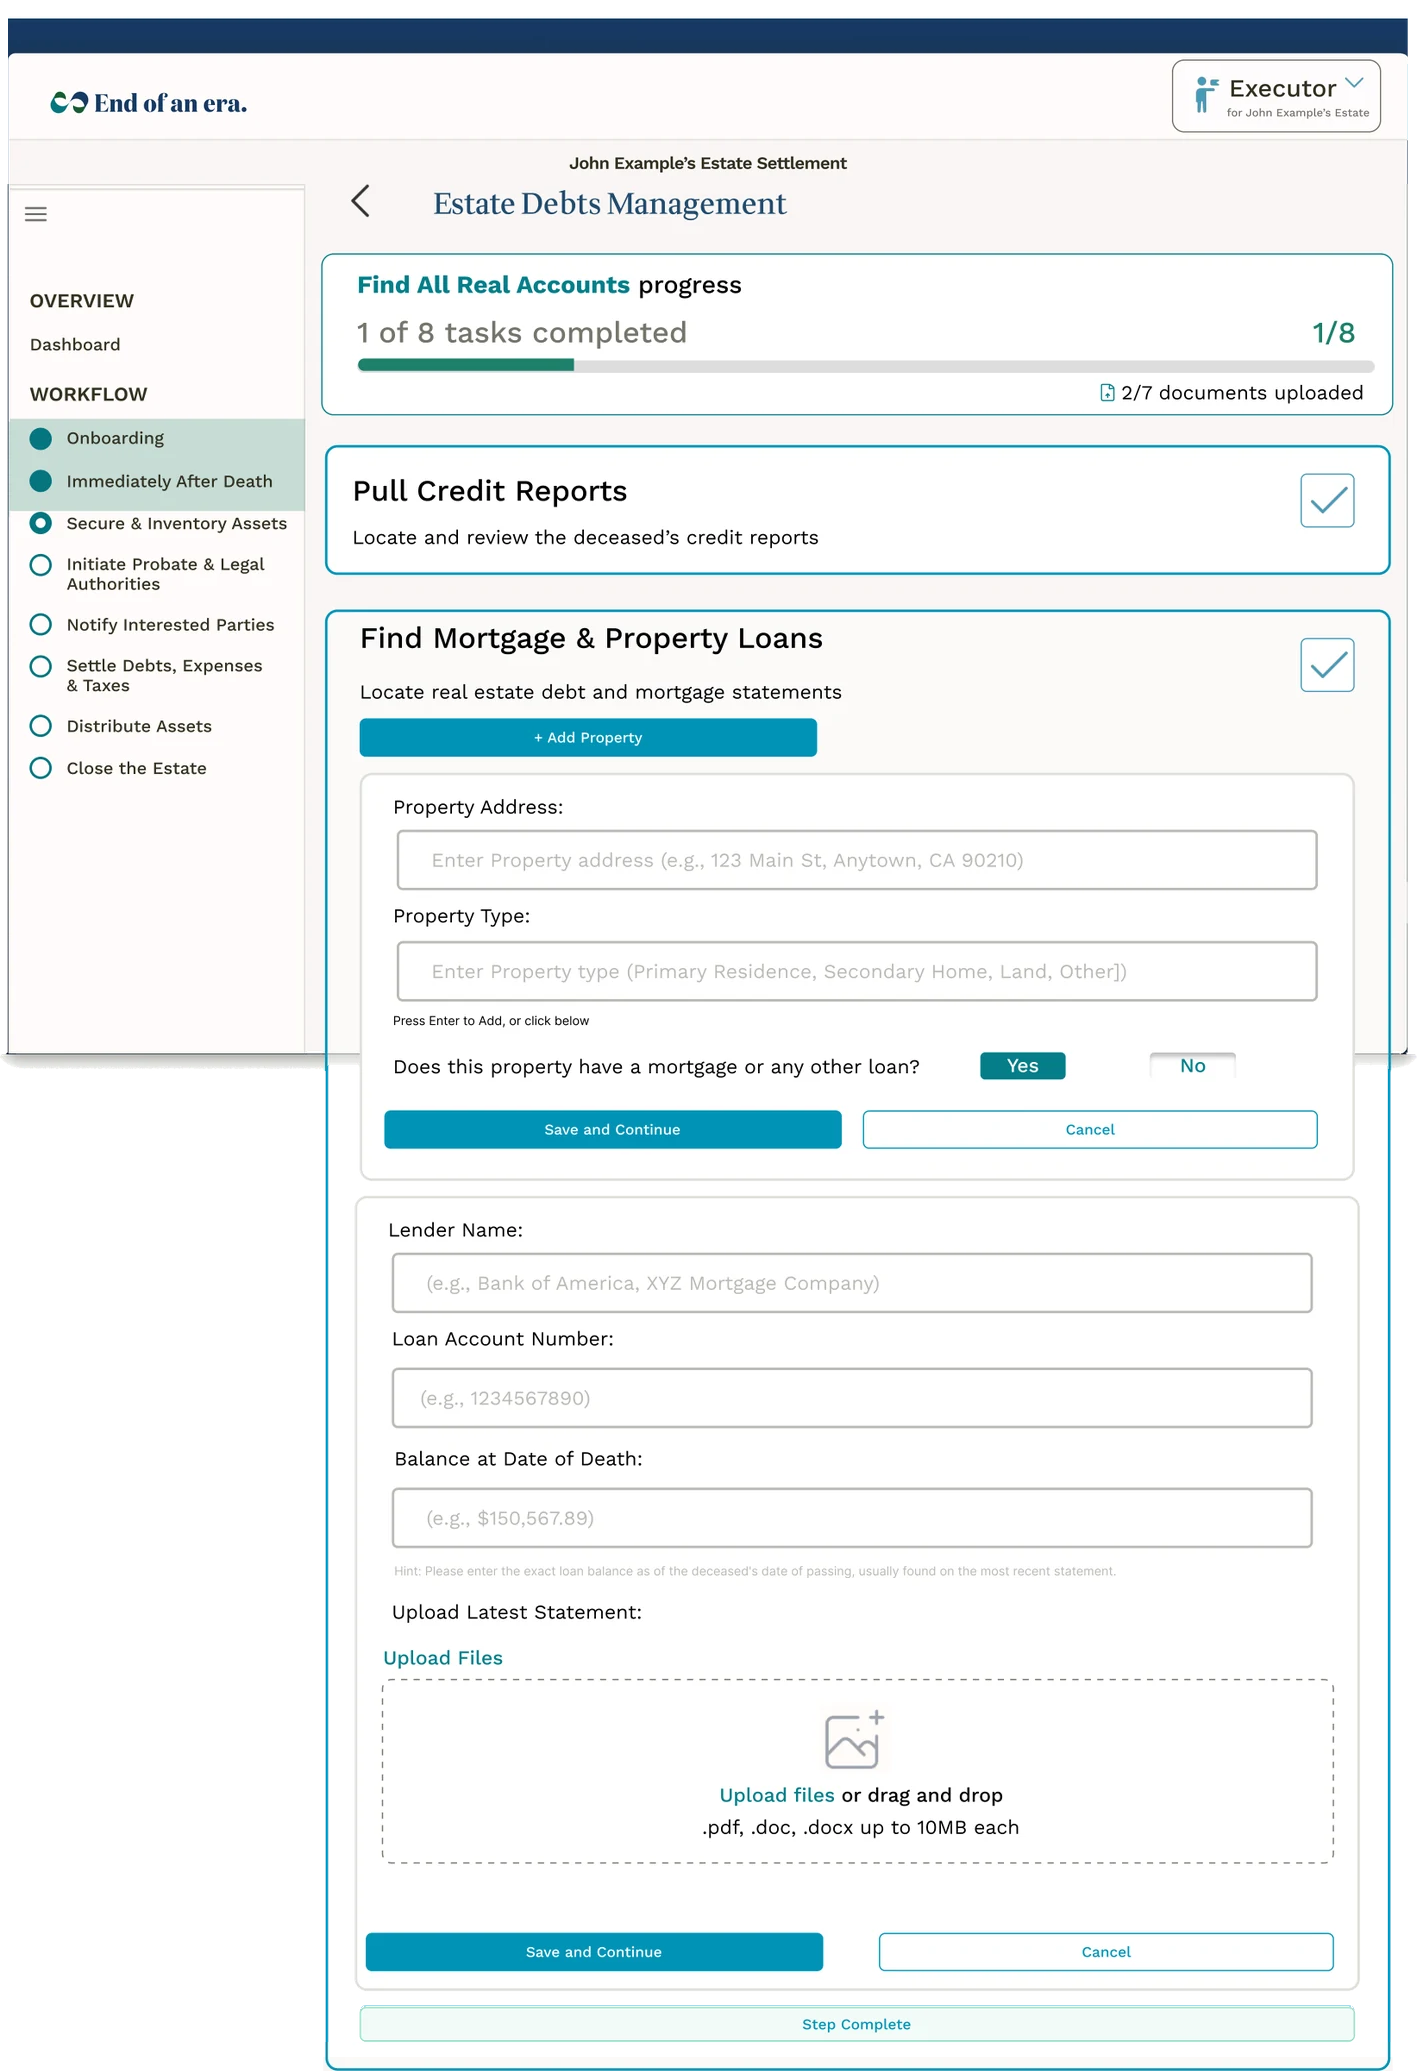
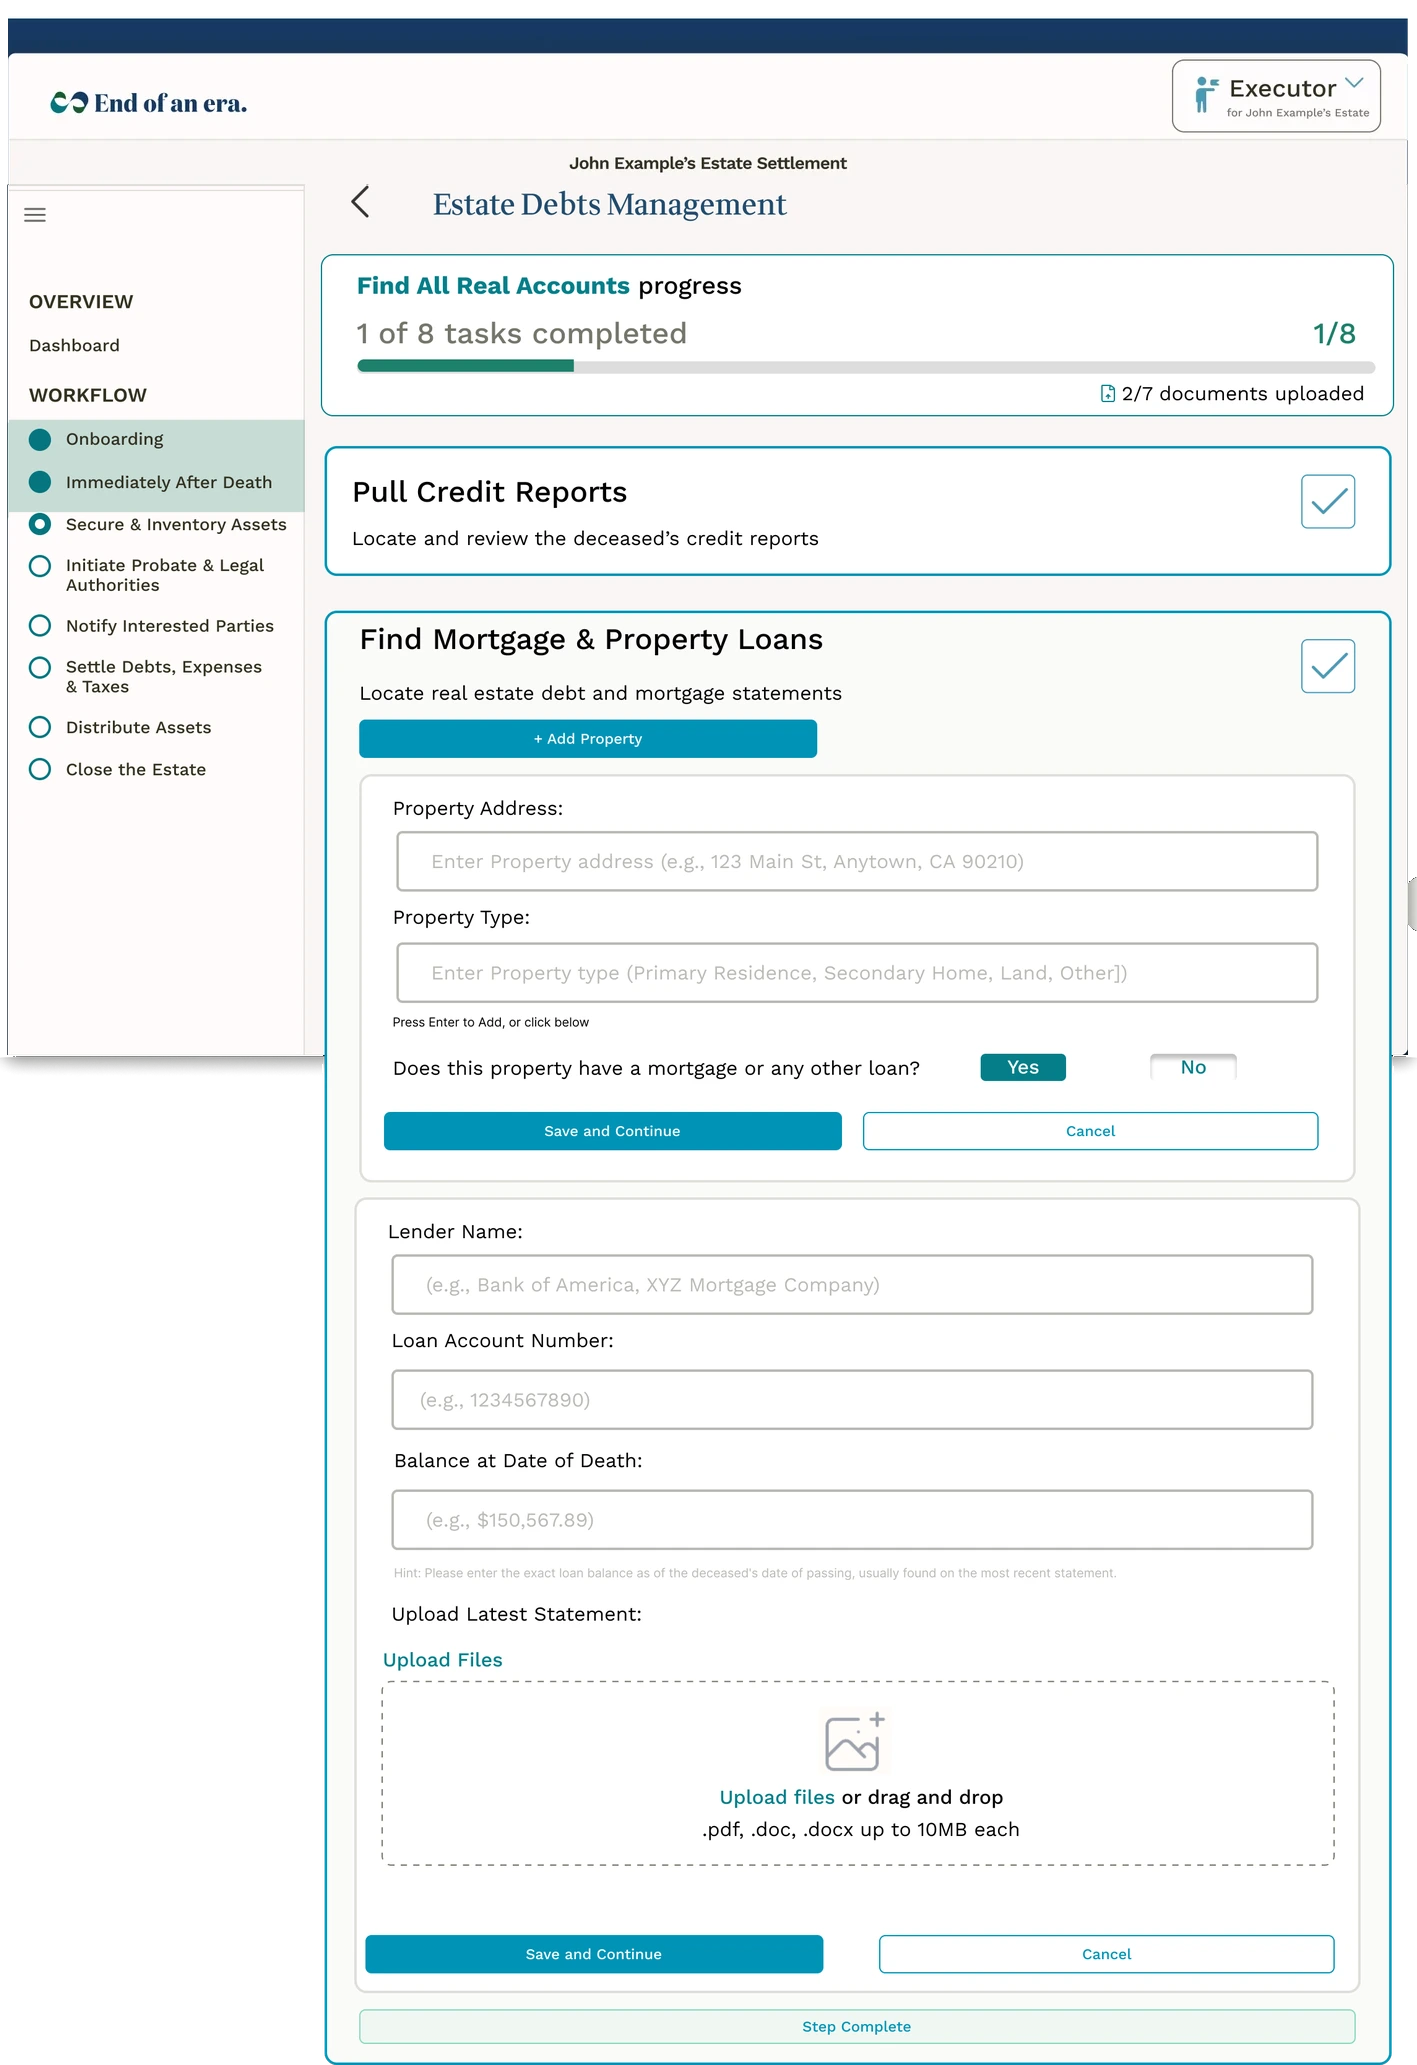
End of an Era: solid Find Mortgage screen (Frame 391, tools/eoe_liab_mortgage_solid.py); frames fit each window's own height; less rounded frames with parallel inner corners

diff --git a/components/case/device.tsx b/components/case/device.tsx
@@ -11,7 +11,7 @@ import { L, tx } from "@/lib/i18n";
 export type Frame = { src: string; w: number; h: number; win: [number, number, number, number] | null; alt: string };
 
 const WIN_W = 1400;
-const WIN_H = 995; // shared window box height (most windows are 997 below the export's white top strip; ±2% differences fall inside it)
+const WIN_H = 995; // fallback window height; each frame uses its own (win[3]) so the frame always fits its window
 const PAD = 0.022; // bezel padding, as a fraction of the device width
 const INNER = 1 - PAD * 2;
 
@@ -21,11 +21,14 @@ function place(f: Frame) {
   return { left: -x / WIN_W, top: -y / WIN_W, width: f.w / WIN_W, height: f.h / WIN_W };
 }
 
+const winH = (f: Frame) => (f.win ? f.win[3] : WIN_H);
+const R = 6; // inner screen corner radius (px); the frame's outer radius is this plus the padding, so corners run parallel
+
 /** Extra space the overflowing parts need around the device, in fractions of the device width. */
 export function overflow(f: Frame) {
   if (!f.win) return { left: 0, right: 0, bottom: Math.max(0, (f.h / f.w) - 1) };
   const p = place(f);
-  const winBoxH = WIN_H / WIN_W;
+  const winBoxH = winH(f) / WIN_W;
   return {
     left: Math.max(0, -p.left * INNER - PAD),
     right: Math.max(0, (p.left + p.width - 1) * INNER - PAD),
@@ -52,14 +55,20 @@ export function Device({ frame, className, style }: { frame: Frame; className?: 
     );
   }
   const p = place(frame);
+  const H = winH(frame);
+  const [x, y, ww] = frame.win;
+  // trim slivers beside the window (exports are a few px wider), but never real overflow such as a wide modal
+  const sideL = x < 20 ? (x / frame.w) * 100 : 0;
+  const rest = frame.w - x - ww;
+  const sideR = rest > 0 && rest < 20 ? (rest / frame.w) * 100 : 0;
   return (
-    <div className={className} style={style}>
+    <div className={className} style={{ ...style, containerType: "inline-size" }}>
       <div
-        className="rounded-[22px] bg-white shadow-[0_24px_60px_-28px_rgba(0,0,0,0.5)]"
-        style={{ padding: `${PAD * 100}%` }}
+        className="bg-white shadow-[0_24px_60px_-28px_rgba(0,0,0,0.5)]"
+        style={{ padding: `${PAD * 100}cqw`, borderRadius: `calc(${PAD * 100}cqw + ${R}px)` }}
       >
-        <div className="relative w-full" style={{ aspectRatio: `${WIN_W} / ${WIN_H}` }}>
-          <div className="absolute inset-0 rounded-[6px] bg-[#fbf8f5]" />
+        <div className="relative w-full" style={{ aspectRatio: `${WIN_W} / ${H}` }}>
+          <div className="absolute inset-0 bg-[#fbf8f5]" style={{ borderRadius: R }} />
           {/* eslint-disable-next-line @next/next/no-img-element */}
           <img
             src={frame.src}
@@ -71,10 +80,10 @@ export function Device({ frame, className, style }: { frame: Frame; className?: 
             className="absolute max-w-none select-none"
             style={{
               left: `${p.left * 100}%`,
-              top: `${(p.top * 100 * WIN_W) / WIN_H}%`,
+              top: `${(p.top * 100 * WIN_W) / H}%`,
               width: `${p.width * 100}%`,
-              // hide the white strip the exports have above the window
-              clipPath: `inset(${(frame.win[1] / frame.h) * 100}% 0 0 0)`,
+              // hide the white strip above the window; round the corners to match the frame
+              clipPath: `inset(${(y / frame.h) * 100}% ${sideR}% 0 ${sideL}% round ${R}px)`,
             }}
           />
         </div>
@@ -156,7 +165,7 @@ function point(d: Placed, fx: number, fy: number) {
   if (!d.frame.win) return { x: d.left + d.width * fx, y: d.top + d.width * (d.frame.h / d.frame.w) * fy };
   return {
     x: d.left + d.width * (PAD + INNER * fx),
-    y: d.top + d.width * PAD + d.width * INNER * (WIN_H / WIN_W) * fy,
+    y: d.top + d.width * PAD + d.width * INNER * (winH(d.frame) / WIN_W) * fy,
   };
 }
 

diff --git a/app/work/end-of-an-era/frames.ts b/app/work/end-of-an-era/frames.ts
@@ -41,7 +41,7 @@ export const FRAMES = {
   "liab-planner-1": { w: 1414, h: 1734, win: [7, 20, 1400, 939] },
   "liab-planner-2": { w: 1415, h: 1102, win: [5, 20, 1400, 1001] },
   "liab-planner-3": { w: 1408, h: 1027, win: [3, 20, 1400, 995] },
-  "liab-planner-4": { w: 1417, h: 2071, win: [8, 20, 1400, 1033] },
+  "liab-planner-4": { w: 1417, h: 2065, win: [8, 22, 1400, 1033] },
   "liab-planner-5": { w: 1410, h: 1241, win: [3, 20, 1400, 1051] },
   "liab-planner-6": { w: 1411, h: 2295, win: [4, 20, 1400, 1030] },
   "liab-planner-7": { w: 1410, h: 1389, win: [3, 20, 1400, 1051] },
@@ -52,7 +52,7 @@ export const FRAMES = {
   "liab-noplanner-3": { w: 1408, h: 1027, win: [3, 20, 1400, 995] },
   "liab-noplanner-4": { w: 1415, h: 1102, win: [5, 20, 1400, 1001] },
   "liab-noplanner-5": { w: 1410, h: 1241, win: [3, 20, 1400, 1051] },
-  "liab-noplanner-6": { w: 1417, h: 2071, win: [8, 20, 1400, 1033] },
+  "liab-noplanner-6": { w: 1417, h: 2065, win: [8, 22, 1400, 1033] },
   "liab-noplanner-7": { w: 1411, h: 2295, win: [4, 20, 1400, 1030] },
   "liab-noplanner-8": { w: 1410, h: 1389, win: [3, 20, 1400, 1051] },
   "liab-noplanner-9": { w: 1402, h: 1058, win: [0, 20, 1400, 1028] },
